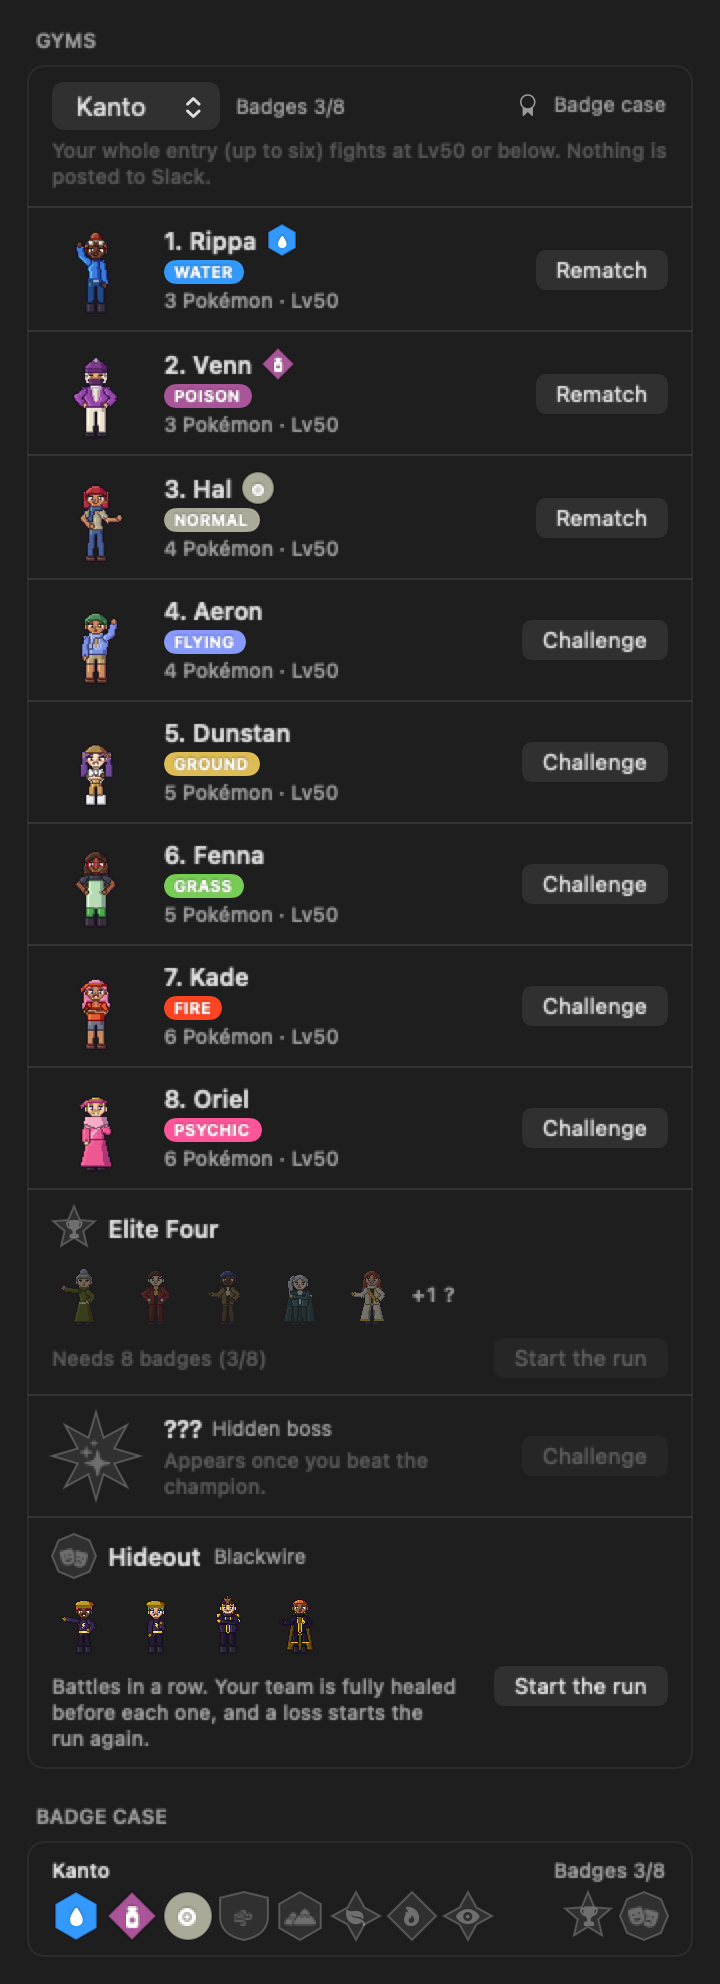
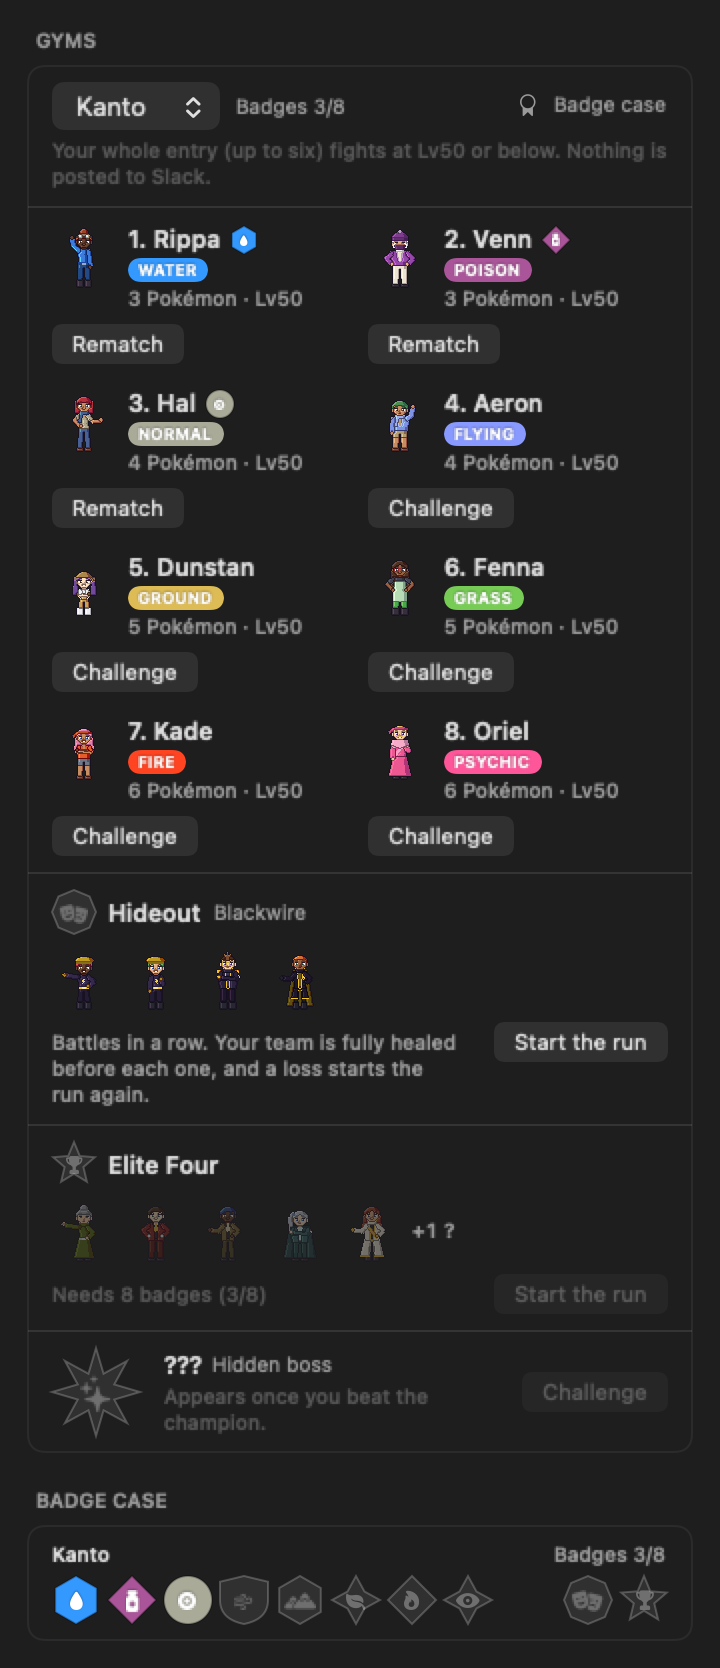
fix(gym): shorten the gym list with a two-column grid
Each gym becomes a compact card (sprite, name and badge, types, team line,
button below), four rows of two. The gym block drops from about 495pt to
about 330pt in the Battle sub-tab. Dual types stack their chips when the
column is too narrow. README gym and replay screenshots are redrawn.

diff --git a/Tests/PokeTokenBarTests/GymGridTests.swift b/Tests/PokeTokenBarTests/GymGridTests.swift
@@ -1,0 +1,121 @@
+import AppKit
+import SwiftUI
+import XCTest
+@testable import PokeTokenBar
+
+private struct ColumnWidths: PreferenceKey {
+    static let defaultValue: [CGFloat] = []
+    static func reduce(value: inout [CGFloat], nextValue: () -> [CGFloat]) { value += nextValue() }
+}
+
+@MainActor
+private final class WidthBox {
+    var values: [CGFloat] = []
+}
+
+/// The Battle sub-tab's eight gyms as a two-column grid.
+@MainActor
+final class GymGridTests: XCTestCase {
+    private let cardWidth = PopoverMetrics.scrollContentWidth
+    private var columnWidth: CGFloat { (cardWidth - Spacing.lg * 2 - Spacing.md) / 2 }
+
+    /// Kanto with each gym's name and types replaced; the longest real names are "8. Kerrigan" and "7. ウィンズロー".
+    private func gyms(names: [(String, String)], types: [[String]]) throws -> [GymOpponent] {
+        var region = GymFixtures.region("kanto")
+        region["gyms"] = names.indices.map { index in
+            var gym = GymFixtures.opponent("kanto-\(index + 1)", kind: "gym", index: 8, types: types[index % types.count],
+                                           trainer: names[index])
+            var trainer = gym["trainer"] as? [String: Any] ?? [:]
+            trainer["name"] = ["ko": names[index].0, "en": names[index].1, "ja": "ウィンズロー"]
+            gym["trainer"] = trainer
+            return gym
+        }
+        let data = try JSONSerialization.data(withJSONObject: ["ok": true, "regions": [region]])
+        return try XCTUnwrap(GymCatalog.decode(data).region("kanto")).gyms
+    }
+
+    private static func card(_ gym: GymOpponent, _ language: AppLanguage, earned: Bool = true, fighting: Bool = false) -> some View {
+        GymOpponentCard(opponent: gym, language: language, l: L(language), earned: earned, fighting: fighting,
+                        disabled: false) {}
+            .environment(\.locale, language.displayLocale)
+    }
+
+    func testTheEightGymsLayOutAsFourRowsOfTwoInIndexOrder() throws {
+        let kanto = try XCTUnwrap(GymFixtures.catalog().region("kanto"))
+        XCTAssertEqual(GymGrid<EmptyView>.rows(kanto.gyms).map { $0.map(\.index) }, [[1, 2], [3, 4], [5, 6], [7, 8]])
+    }
+
+    func testTheGridIsMuchShorterThanOneColumnOfTheSameGyms() throws {
+        let kanto = try XCTUnwrap(GymFixtures.catalog().region("kanto"))
+        for language in [AppLanguage.ko, .en, .de] {
+            let grid = LayoutMeasure.size(GymGrid(gyms: kanto.gyms) { Self.card($0, language) }, width: cardWidth)
+            let column = LayoutMeasure.size(
+                VStack(alignment: .leading, spacing: Spacing.lg) { ForEach(kanto.gyms) { Self.card($0, language) } }
+                    .padding(.horizontal, Spacing.lg).padding(.vertical, Spacing.md),
+                width: cardWidth)
+            XCTAssertLessThan(grid.height, column.height * 0.6, "\(language.rawValue): grid \(grid.height)pt, one column \(column.height)pt")
+        }
+    }
+
+    func testBothColumnsGetTheSameWidth() async throws {
+        let kanto = try XCTUnwrap(GymFixtures.catalog().region("kanto"))
+        let widths = WidthBox()
+        let grid = GymGrid(gyms: kanto.gyms) { gym in
+            Self.card(gym, .de, earned: gym.index.isMultiple(of: 2))
+                .background(GeometryReader { Color.clear.preference(key: ColumnWidths.self, value: [$0.size.width]) })
+        }
+        .onPreferenceChange(ColumnWidths.self) { value in MainActor.assumeIsolated { widths.values = value } }
+        .frame(width: cardWidth)
+        let host = OffscreenRender.host(grid, size: CGSize(width: cardWidth, height: 600), appearance: .aqua)
+        try await OffscreenRender.settle(host) { widths.values.count == 8 }
+        for width in widths.values { XCTAssertEqual(width, columnWidth, accuracy: 0.5, "\(widths.values)") }
+    }
+
+    func testNoCardOverflowsItsColumnForAnyTypeOrButtonStateInEveryLanguage() throws {
+        let names = [("관장관장", "Kerrigan")]
+        let single = try gyms(names: Array(repeating: names[0], count: PokemonType.allCases.count),
+                              types: PokemonType.allCases.map { [$0.rawValue] })
+        for language in AppLanguage.allCases {
+            for gym in single {
+                for (earned, fighting) in [(false, false), (true, false), (false, true)] {
+                    let ideal = LayoutMeasure.size(Self.card(gym, language, earned: earned, fighting: fighting).fixedSize())
+                    XCTAssertLessThanOrEqual(ideal.width, columnWidth + 0.5,
+                                             "\(language.rawValue) \(gym.types) earned=\(earned) fighting=\(fighting)")
+                }
+            }
+        }
+    }
+
+    /// Every language with the longest names, a dual-type gym, and one gym of each button state.
+    ///
+    ///     PTB_GYM_GRID_SHOT_DIR=/tmp/shots swift test --filter GymGridTests
+    func testCaptureTheGridInEveryLanguage() async throws {
+        guard let output = ProcessInfo.processInfo.environment["PTB_GYM_GRID_SHOT_DIR"] else {
+            throw XCTSkip("Set PTB_GYM_GRID_SHOT_DIR to write the PR screenshots")
+        }
+        let directory = URL(fileURLWithPath: output)
+        try FileManager.default.createDirectory(at: directory, withIntermediateDirectories: true)
+        let types = [["electric", "fighting"], ["water"], ["psychic"], ["fairy"], ["ground"], ["steel"], ["fire"], ["dragon"]]
+        let stress = try gyms(names: Array(repeating: ("관장관장", "Kerrigan"), count: 8), types: types)
+        for language in AppLanguage.allCases {
+            let grid = GymGrid(gyms: stress) { gym in
+                GymOpponentCard(opponent: gym, language: language, l: L(language), earned: gym.id.hasSuffix("-1"),
+                                fighting: gym.id.hasSuffix("-2"), disabled: gym.id.hasSuffix("-2")) {}
+            }
+            .frame(width: cardWidth).ptbCard()
+            .padding(Spacing.md).background(Color.white)
+            .environment(\.colorScheme, .light).environment(\.locale, language.displayLocale)
+            _ = try await OffscreenRender.capture(grid, size: CGSize(width: cardWidth + Spacing.md * 2, height: 420),
+                                                  appearance: .aqua,
+                                                  to: directory.appendingPathComponent("gym-grid-\(language.rawValue).png"))
+        }
+    }
+
+    func testADualTypeGymStacksItsChipsInsteadOfOverflowingInEveryLanguage() throws {
+        let dual = try XCTUnwrap(gyms(names: [("관장관장", "Kerrigan")], types: [["electric", "fighting"]]).first)
+        for language in AppLanguage.allCases {
+            let offered = LayoutMeasure.size(Self.card(dual, language), width: columnWidth)
+            XCTAssertLessThanOrEqual(offered.width, columnWidth + 0.5, language.rawValue)
+        }
+    }
+}

diff --git a/Sources/PokeTokenBar/UI/GymCards.swift b/Sources/PokeTokenBar/UI/GymCards.swift
@@ -1,8 +1,32 @@
 import SwiftUI
 
-/// One gym: its leader, the types they lean to, and the challenge button.
+/// A region's gyms in two columns, read left to right, top to bottom.
 @MainActor
-struct GymOpponentRow: View {
+struct GymGrid<Cell: View>: View {
+    static var columns: Int { 2 }
+
+    let gyms: [GymOpponent]
+    @ViewBuilder let cell: (GymOpponent) -> Cell
+
+    static func rows<Item>(_ items: [Item]) -> [[Item]] {
+        stride(from: 0, to: items.count, by: columns).map { Array(items[$0..<min($0 + columns, items.count)]) }
+    }
+
+    var body: some View {
+        Grid(alignment: .topLeading, horizontalSpacing: Spacing.md, verticalSpacing: Spacing.lg) {
+            ForEach(Array(Self.rows(gyms).enumerated()), id: \.offset) { _, row in
+                GridRow {
+                    ForEach(row) { cell($0).frame(maxWidth: .infinity, alignment: .topLeading) }
+                }
+            }
+        }
+        .padding(.horizontal, Spacing.lg).padding(.vertical, Spacing.md)
+    }
+}
+
+/// One gym as a grid cell: its leader, the types they lean to, and the challenge button.
+@MainActor
+struct GymOpponentCard: View {
     let opponent: GymOpponent
     let language: AppLanguage
     let l: L
@@ -12,24 +36,32 @@ struct GymOpponentRow: View {
     let action: () -> Void
 
     var body: some View {
-        HStack(spacing: Spacing.lg) {
-            TrainerSprite(battleID: opponent.id, size: 44)
-            VStack(alignment: .leading, spacing: Spacing.xxs) {
-                HStack(spacing: Spacing.xs) {
-                    Text("\(opponent.index). \(opponent.trainer.displayName(language))")
-                        .font(.callout.weight(.semibold)).lineLimit(1)
-                    if earned { GymBadgeView(emblem: GymBadgeCase.emblem(for: opponent), earned: true, size: 16) }
+        VStack(alignment: .leading, spacing: Spacing.sm) {
+            HStack(alignment: .top, spacing: Spacing.sm) {
+                TrainerSprite(battleID: opponent.id, size: 32)
+                VStack(alignment: .leading, spacing: Spacing.xxs) {
+                    HStack(spacing: Spacing.xs) {
+                        Text("\(opponent.index). \(opponent.trainer.displayName(language))")
+                            .font(.callout.weight(.semibold)).lineLimit(1)
+                        if earned { GymBadgeView(emblem: GymBadgeCase.emblem(for: opponent), earned: true, size: 14) }
+                    }
+                    if !opponent.types.isEmpty {
+                        ViewThatFits(in: .horizontal) {
+                            TypeBadges(types: opponent.types, language: language)
+                            VStack(alignment: .leading, spacing: Spacing.xxs) {
+                                ForEach(opponent.types, id: \.self) { TypeBadges(types: [$0], language: language) }
+                            }
+                        }
+                    }
+                    Text(l.gymTeamLine(opponent.team.count, level: opponent.level))
+                        .font(.caption2).foregroundStyle(.secondary).lineLimit(1)
                 }
-                if !opponent.types.isEmpty { TypeBadges(types: opponent.types, language: language) }
-                Text(l.gymTeamLine(opponent.team.count, level: opponent.level))
-                    .font(.caption2).foregroundStyle(.secondary)
             }
-            Spacer(minLength: Spacing.xs)
             Button(fighting ? l.gymFighting : (earned ? l.gymRematch : l.gymChallenge), action: action)
                 .controlSize(.small)
                 .disabled(disabled)
         }
-        .padding(.horizontal, Spacing.lg).padding(.vertical, Spacing.md)
+        .frame(maxWidth: .infinity, alignment: .leading)
         .help(opponent.trainer.displayLine(language))
     }
 }

diff --git a/Sources/PokeTokenBar/UI/GymSection.swift b/Sources/PokeTokenBar/UI/GymSection.swift
@@ -70,14 +70,14 @@ struct GymSection: View {
         } else {
             header(catalog, region: region, badges: badges)
             Divider()
-            ForEach(region.gyms) { gym in
-                GymOpponentRow(opponent: gym, language: language, l: l,
-                               earned: badges.hasGymBadge(region.id, index: gym.index),
-                               fighting: service.inFlight == gym.id, disabled: service.inFlight != nil) {
+            GymGrid(gyms: region.gyms) { gym in
+                GymOpponentCard(opponent: gym, language: language, l: l,
+                                earned: badges.hasGymBadge(region.id, index: gym.index),
+                                fighting: service.inFlight == gym.id, disabled: service.inFlight != nil) {
                     Task { await service.fightGym(gym, region: region, team: team) }
                 }
-                Divider()
             }
+            Divider()
             ForEach(Array(Self.runRows(region).enumerated()), id: \.element) { index, row in
                 if index > 0 { Divider() }
                 switch row {

diff --git a/Tests/PokeTokenBarTests/ReadmeScreenshotTests.swift b/Tests/PokeTokenBarTests/ReadmeScreenshotTests.swift
@@ -399,8 +399,9 @@ final class ReadmeScreenshotTests: XCTestCase {
         let player = GymReplayPlayer(try XCTUnwrap(GymReplay(outcome)), shown: 12)
         return VStack(alignment: .leading, spacing: Spacing.md) {
             VStack(spacing: 0) {
-                GymOpponentRow(opponent: opponent, language: language, l: l, earned: false, fighting: true,
-                               disabled: true) {}
+                GymOpponentCard(opponent: opponent, language: language, l: l, earned: false, fighting: true,
+                                disabled: true) {}
+                    .padding(.horizontal, Spacing.lg).padding(.vertical, Spacing.md)
             }
             .ptbCard()
             GymReplayView(player: player, outcome: outcome, l: l, autoplay: false)

diff --git a/Tests/PokeTokenBarTests/GymRunOrderTests.swift b/Tests/PokeTokenBarTests/GymRunOrderTests.swift
@@ -77,7 +77,7 @@ final class GymRunOrderTests: XCTestCase {
         }
         let directory = URL(fileURLWithPath: output)
         try FileManager.default.createDirectory(at: directory, withIntermediateDirectories: true)
-        for language in [AppLanguage.ko, .en] {
+        for language in [AppLanguage.ko, .en, .de] {
             _ = try await OffscreenRender.capture(
                 try section(language), size: CGSize(width: PopoverMetrics.contentWidth, height: height),
                 appearance: .aqua, to: directory.appendingPathComponent("battle-run-order-\(language.rawValue).png"))
